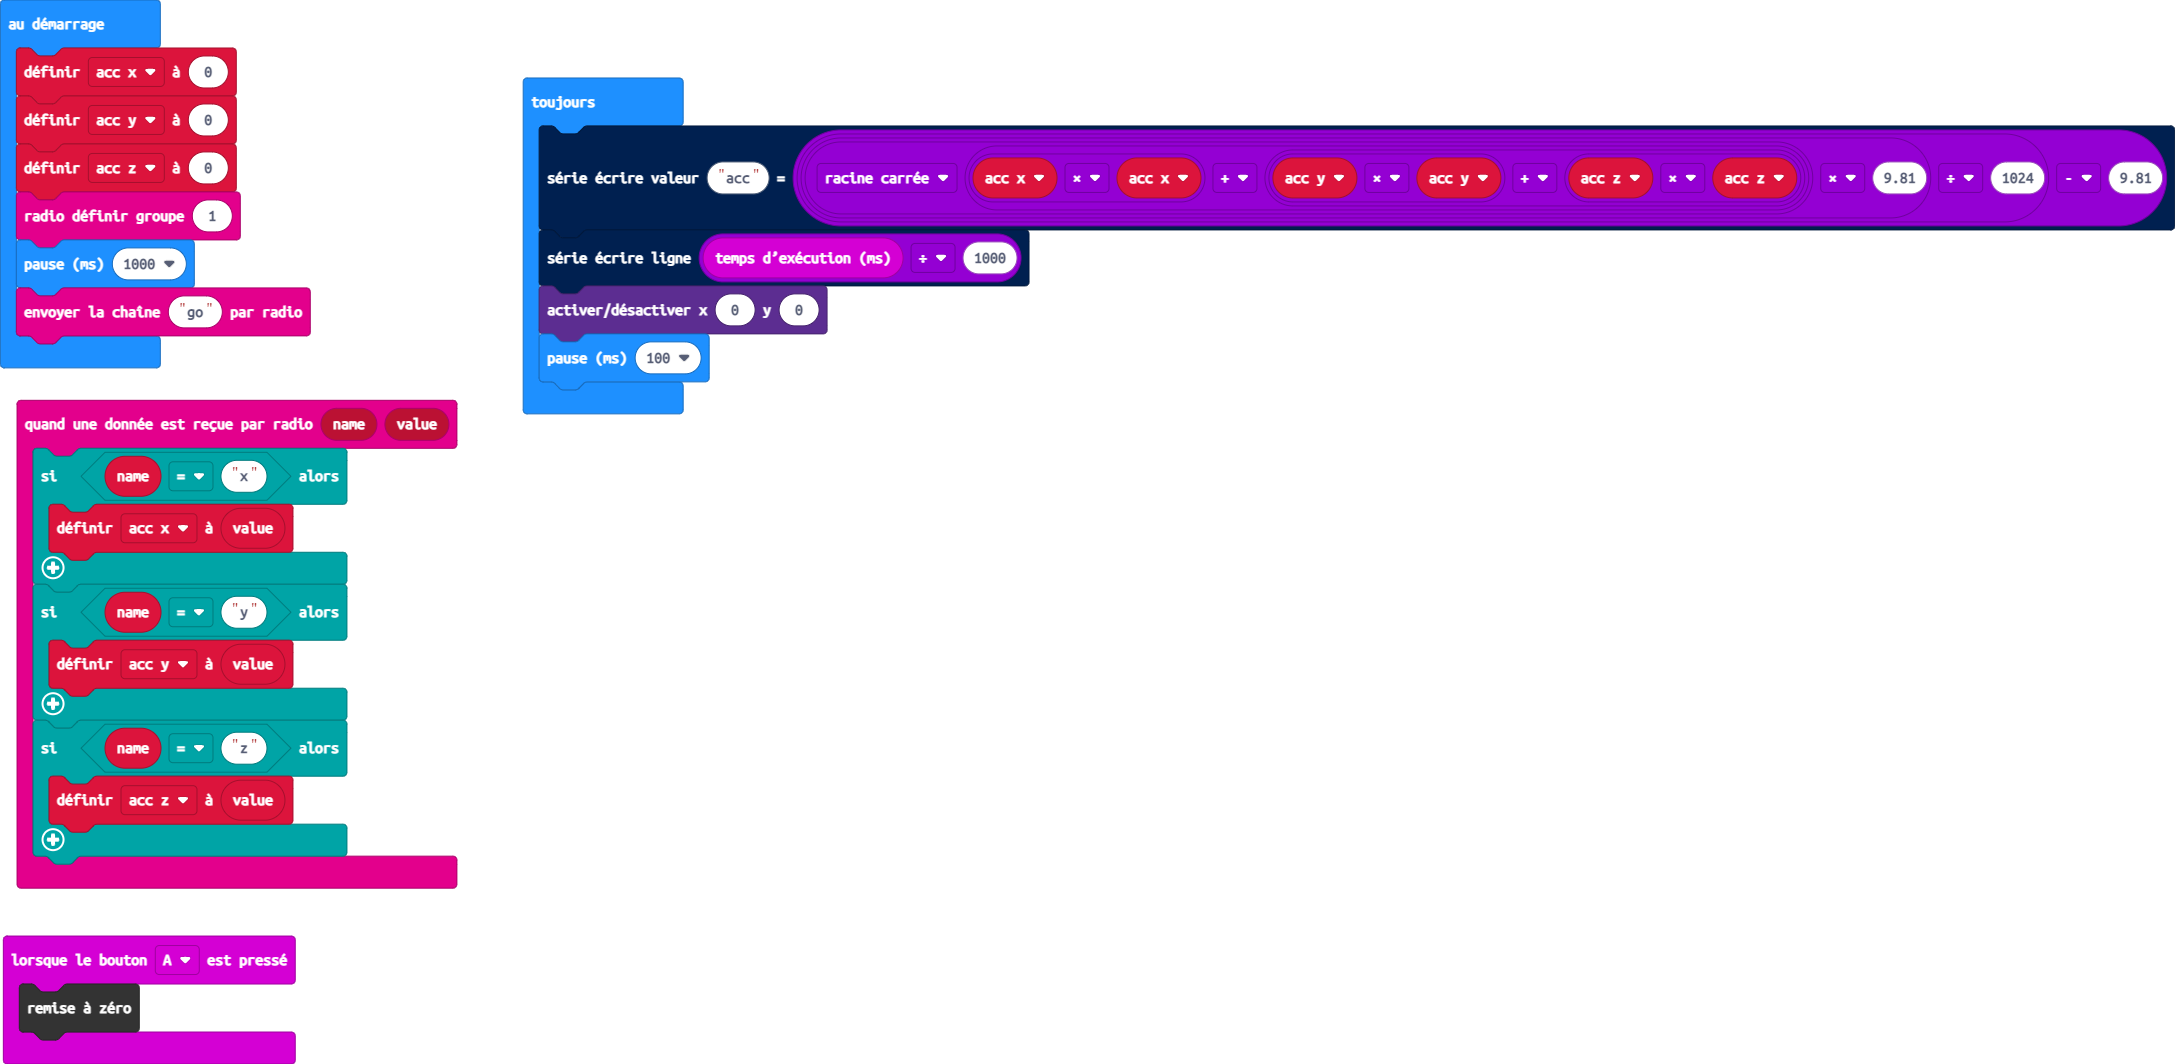
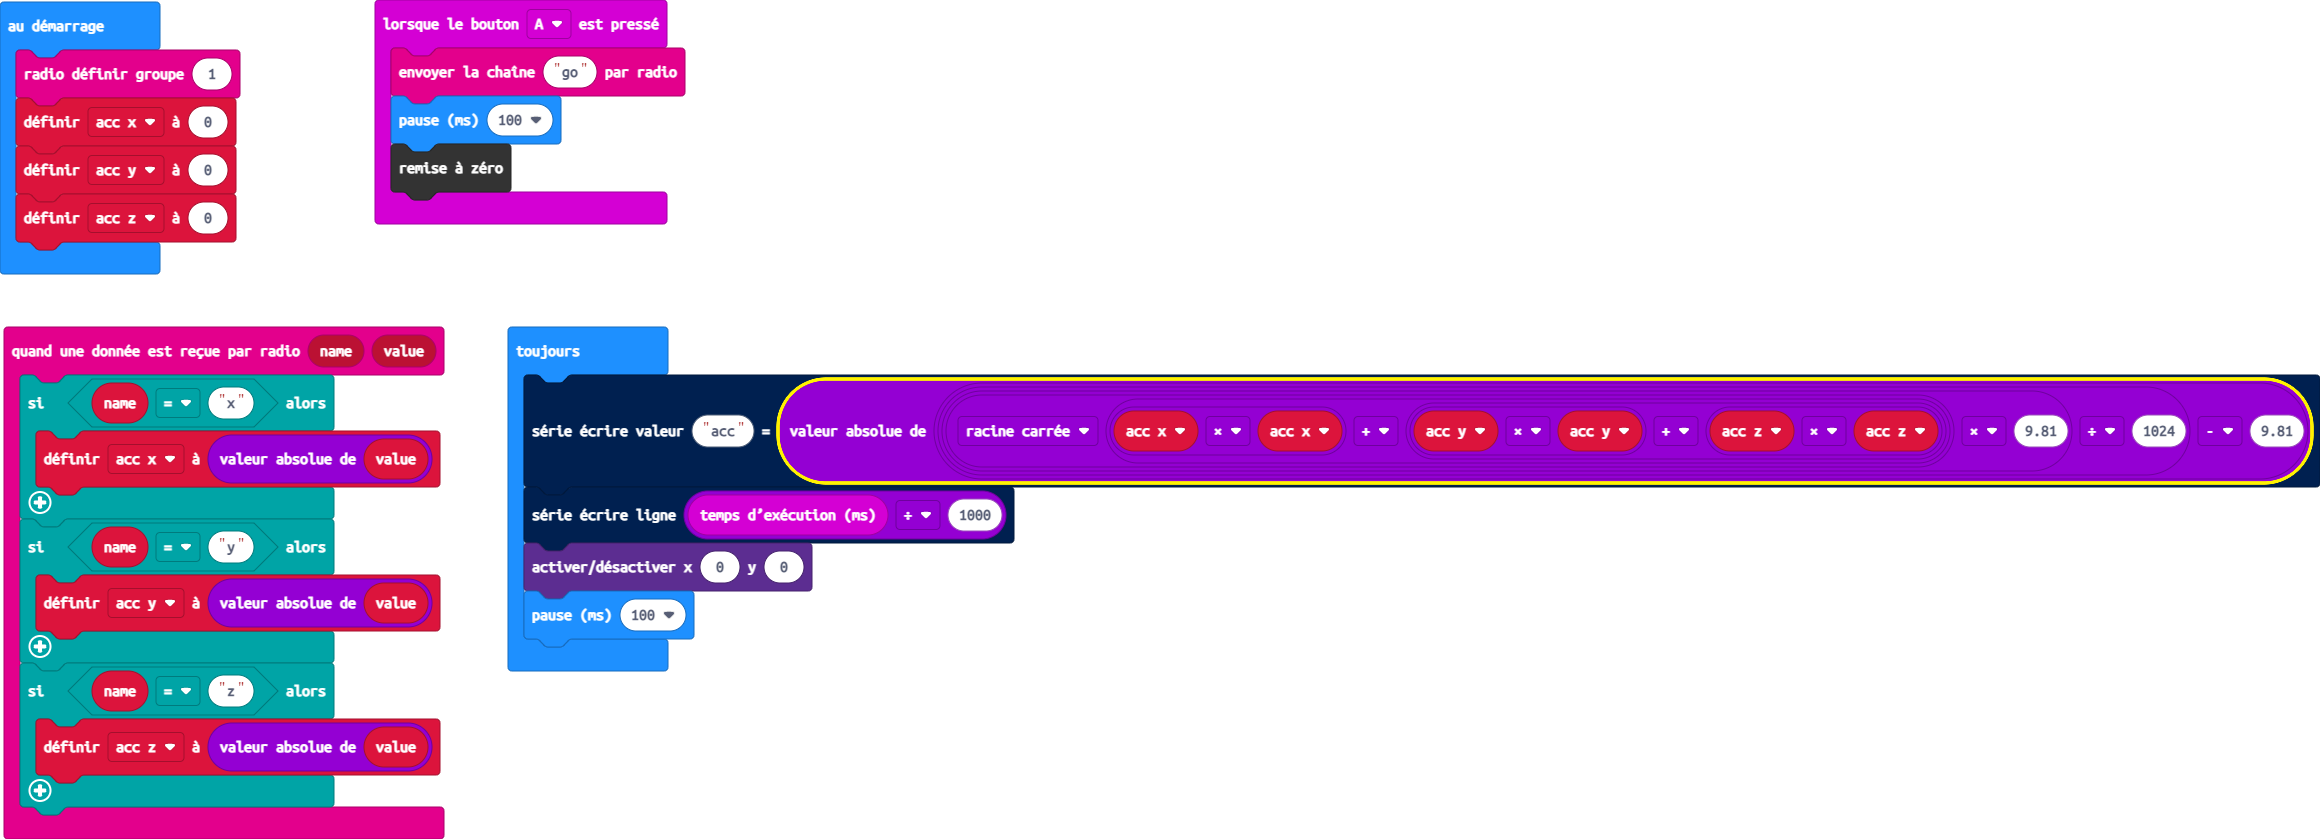
Mise à jour main.blocks, main.ts

diff --git a/main.ts b/main.ts
@@ -1,28 +1,28 @@
 input.onButtonPressed(Button.A, function () {
+    radio.sendString("go")
+    basic.pause(100)
     control.reset()
 })
 radio.onReceivedValue(function (name, value) {
     if (name == "x") {
-        acc_x = value
+        acc_x = Math.abs(value)
     }
     if (name == "y") {
-        acc_y = value
+        acc_y = Math.abs(value)
     }
     if (name == "z") {
-        acc_z = value
+        acc_z = Math.abs(value)
     }
 })
 let acc_z = 0
 let acc_y = 0
 let acc_x = 0
+radio.setGroup(1)
 acc_x = 0
 acc_y = 0
 acc_z = 0
-radio.setGroup(1)
-basic.pause(1000)
-radio.sendString("go")
 basic.forever(function () {
-    serial.writeValue("acc", Math.sqrt(acc_x * acc_x + (acc_y * acc_y + acc_z * acc_z)) * 9.81 / 1024 - 9.81)
+    serial.writeValue("acc", Math.abs(Math.sqrt(acc_x * acc_x + (acc_y * acc_y + acc_z * acc_z)) * 9.81 / 1024 - 9.81))
     serial.writeLine("" + (input.runningTime() / 1000))
     led.toggle(0, 0)
     basic.pause(100)
